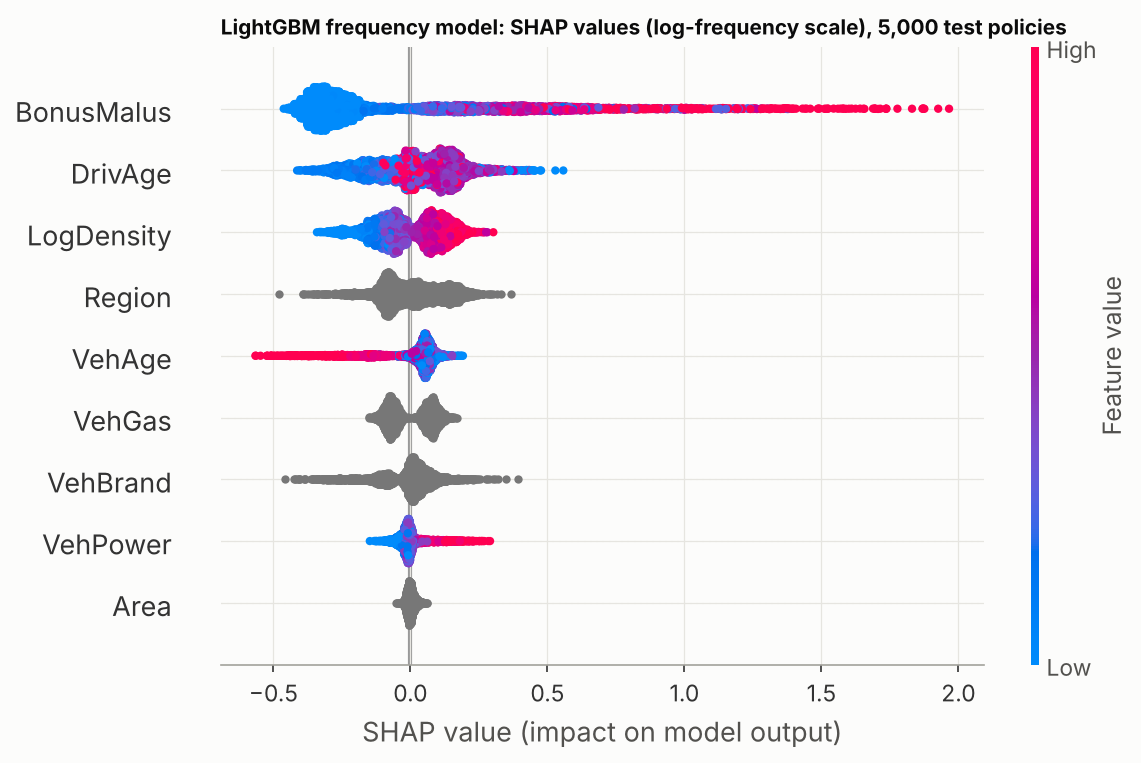
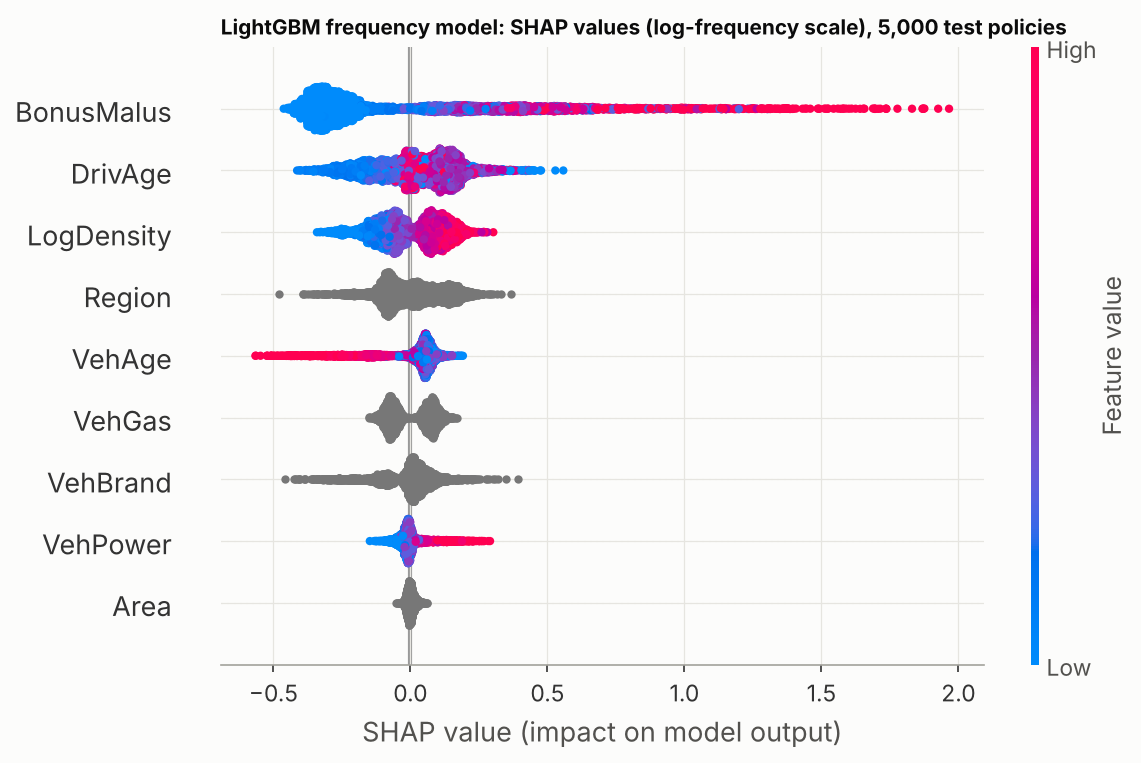
Add Tweedie GLM comparison on capped pure premium (mgcv family)

diff --git a/src/evaluate.py b/src/evaluate.py
@@ -103,6 +103,29 @@ def pure_premium_balance(df: pd.DataFrame) -> pd.DataFrame:
     ])
 
 
+def pure_premium_comparison(df: pd.DataFrame) -> pd.DataFrame:
+    """Frequency x severity GLM vs Tweedie GLM on capped claim cost (test set).
+
+    The common large-loss loading is divided out so that both models are
+    compared on the capped cost they were fitted to.
+    """
+    from sklearn.metrics import mean_tweedie_deviance
+
+    ll = pd.read_csv(config.TABLE_DIR / "large_loss.csv")["large_loss_loading"].iloc[0]
+    e = df["Exposure"].to_numpy()
+    cost = df["ClaimAmountCappedTotal"].to_numpy()
+    rows = []
+    for col, name in [("pure_premium_glm", "Poisson x Gamma GLM"), ("pure_premium_tweedie", "Tweedie GLM (p = 1.5)")]:
+        pp = df[col].to_numpy() / ll
+        rows.append({
+            "model": name,
+            "gini_capped_cost": metrics.gini(cost, pp, e),
+            "mean_tweedie_deviance_p1.5": mean_tweedie_deviance(cost / e, pp, sample_weight=e, power=1.5),
+            "predicted_over_actual_capped": float((pp * e).sum() / cost.sum()),
+        })
+    return pd.DataFrame(rows)
+
+
 def severity_check(df: pd.DataFrame) -> pd.DataFrame:
     """Claim-weighted mean predicted vs observed capped severity on test claims."""
     s = df[df["NbClaimsSev"] > 0]
@@ -174,6 +197,9 @@ def main() -> None:
     pb = pure_premium_balance(df)
     pb.round(4).to_csv(config.TABLE_DIR / "pure_premium_balance.csv", index=False)
     print(pb.round(3).to_string(index=False))
+    ppc = pure_premium_comparison(df)
+    ppc.round(4).to_csv(config.TABLE_DIR / "pure_premium_models.csv", index=False)
+    print(ppc.round(4).to_string(index=False))
     sc = severity_check(df)
     sc.round(3).to_csv(config.TABLE_DIR / "severity_test_check.csv", index=False)
     print(sc.round(3).to_string(index=False))

diff --git a/README.md b/README.md
@@ -86,8 +86,9 @@ validation split of the training set; refit on the full training set. The test s
 **8. Evaluation (Python, `src/evaluate.py`).** On the test set: Poisson deviance, ordered Lorenz curve
 and Gini index, double-lift chart, portfolio balance of claim counts and of the pure premium.
 
-Tweedie (compound Poisson-Gamma) GLM: **not fitted**. Base R has no Tweedie family and the `statmod`
-/ `tweedie` packages could not be installed (CRAN is not reachable from the build environment).
+**Tweedie check (R).** As a single-model alternative, a Tweedie (compound Poisson-Gamma) GLM is fitted
+directly on capped claim cost per exposure year (weights = exposure, log link, power p = 1.5 fixed, not
+estimated), using the `Tweedie` family of `mgcv`, a recommended package that ships with R.
 
 ## Results
 
@@ -183,6 +184,17 @@ product of the factors is checked against `predict()` in the code):
 | x large-loss loading | 1.396 | 1.396 | 1.396 |
 | **Pure premium / year** | **EUR 149** | **EUR 882** | **EUR 138** |
 
+**Frequency x severity vs Tweedie** (test set, capped claim cost, loading divided out):
+
+| Model | Gini on claim cost | Mean Tweedie deviance (p = 1.5) | Predicted / actual capped cost |
+|---|---:|---:|---:|
+| Poisson x Gamma GLM | 0.301 | 69.10 | 1.037 |
+| Tweedie GLM | 0.305 | 69.08 | 1.044 |
+
+The two are practically equivalent on this data. The frequency-severity split is kept as the main
+tariff because it shows *why* a risk is expensive (more claims or bigger claims) and lets each part
+have its own rating factors.
+
 Portfolio balance on the test set:
 
 | Quantity | EUR |
@@ -215,12 +227,13 @@ set from many years of data or an extreme-value (e.g. generalised Pareto) fit, n
   GAM smoothing or fused-lasso grouping of levels.
 - No interactions in the GLM; BonusMalus x DrivAge is the obvious candidate.
 - One random split. Repeated or grouped cross-validation would put a confidence interval on the Gini gap.
-- Flat large-loss loading estimated from one sample; no Tweedie GLM (package unavailable, see above).
+- Flat large-loss loading estimated from one sample; Tweedie power fixed at 1.5 rather than profiled.
 - Pure premium only: no expenses, commission, profit or reinsurance loading, so this is not a commercial premium.
 
 ## How to run
 
-Requirements: Python 3.13 with `requirements.txt`, R 4.3 with `data.table`, `ggplot2`, `testthat`.
+Requirements: Python 3.13 with `requirements.txt`, R 4.3 with `data.table`, `ggplot2`, `testthat`
+(plus the recommended package `mgcv`, included in standard R installations).
 
 ```bash
 pip install -r requirements.txt
@@ -228,8 +241,8 @@ make all        # download (if missing) -> prepare -> one-ways -> R GLMs -> Ligh
 make test       # pytest (17 tests) + testthat (22 expectations)
 ```
 
-`make all` is equivalent to `python -m src.pipeline`. Run time measured here: about 3.5 minutes on a
-shared 2-CPU machine (R GLM stage ~100 s, LightGBM ~90 s; `reports/tables/runtime.csv`). LightGBM uses
+`make all` is equivalent to `python -m src.pipeline`. Run time measured here: about 4 minutes on a
+shared 2-CPU machine (R GLM stage ~130 s, LightGBM ~95 s; `reports/tables/runtime.csv`). LightGBM uses
 one thread: on the shared machine, two threads were slower.
 
 ## Project structure
@@ -242,7 +255,7 @@ src/features.py          GLM bands for driver age, vehicle age, bonus-malus, veh
 src/prepare.py           stage 1: build train/test CSVs
 src/oneway.py            one-way tables and plots (training data)
 R/glm_functions.R        LR/F term tests, backward selection, relativities, overdispersion test
-R/fit_glm.R              stage 2: Poisson frequency GLM, Gamma severity GLM, tariff build-up
+R/fit_glm.R              stage 2: Poisson frequency, Gamma severity and Tweedie GLMs, tariff build-up
 src/gbm.py               stage 3: LightGBM Poisson with log-exposure init score, tuning, SHAP
 src/metrics.py           Poisson deviance, Lorenz curve, Gini, double lift
 src/evaluate.py          stage 4: test-set comparison and balance checks
